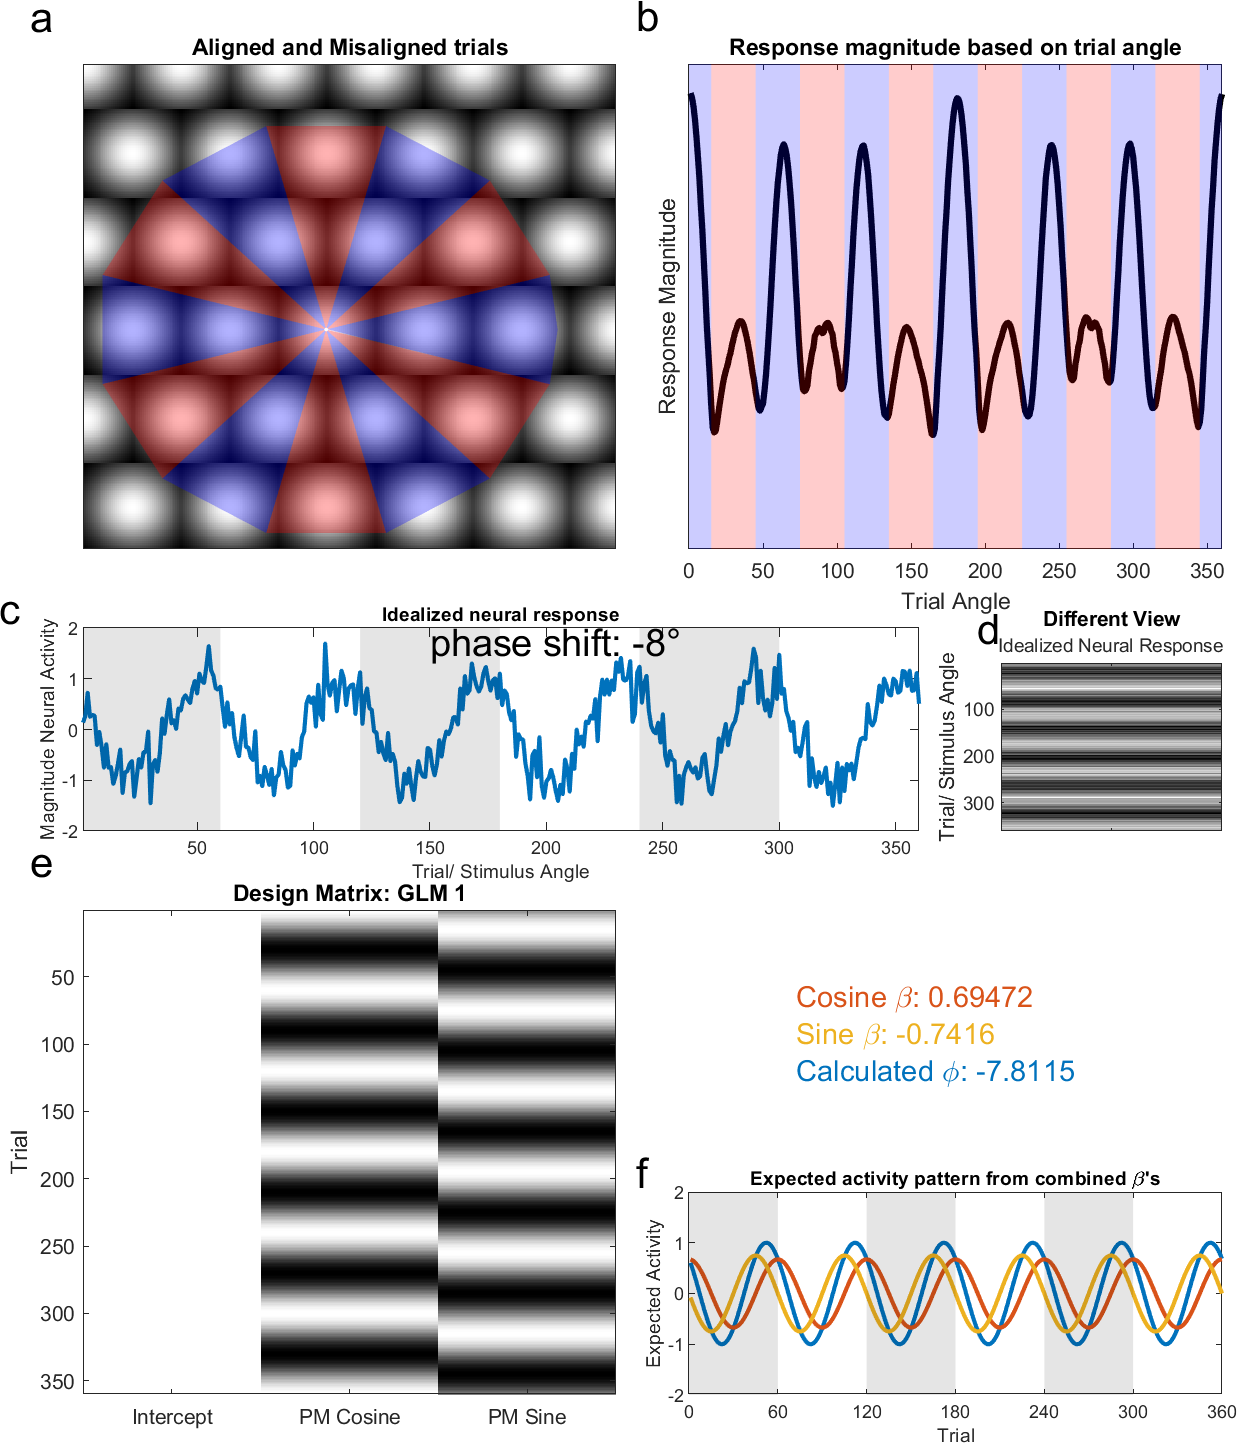
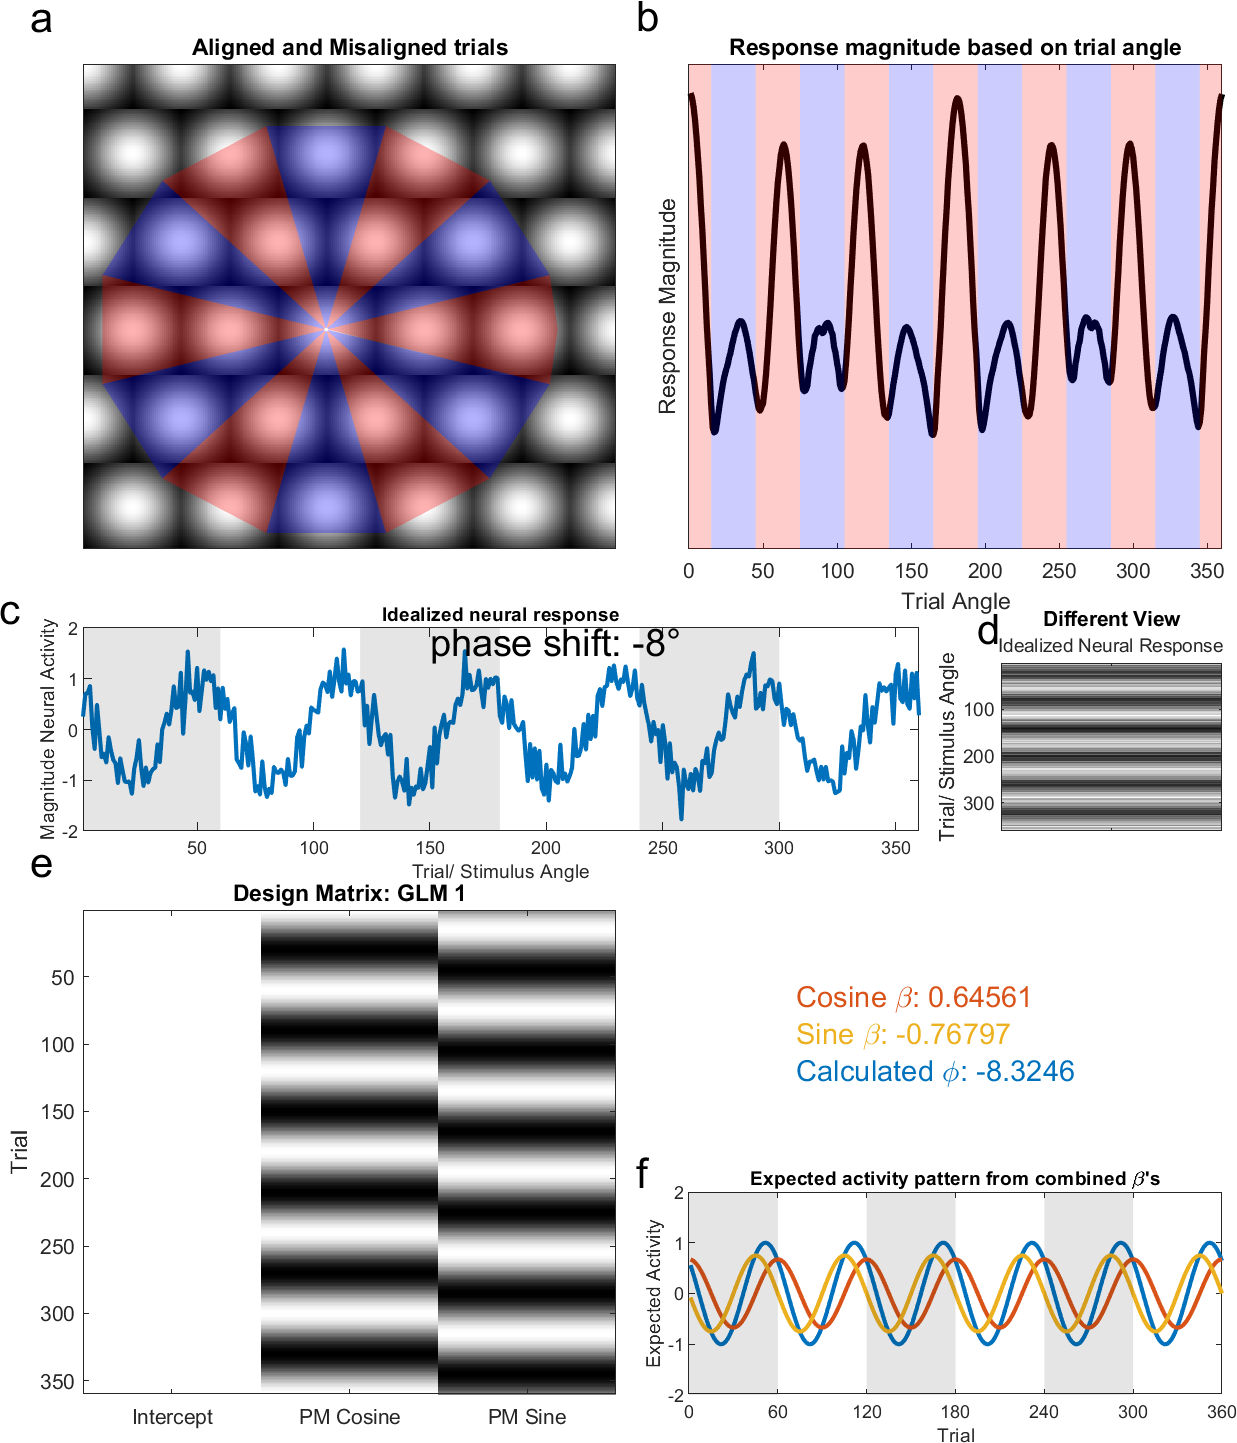
Updated figure colours

diff --git a/2.3-Grid-Code_Analysis/Figure_01.m b/2.3-Grid-Code_Analysis/Figure_01.m
@@ -106,14 +106,14 @@ for iPatch = 1:12
     yPos = y([1, end],endpoints);
     
     if mod(iPatch,2) == 1
-        col = [1 0 0];
-    else
         col = [0 0 1];
+    else
+        col = [1 0 0];
     end
     patch([xPos(1,1) xPos(2,1) xPos(2,2) xPos(1,2)], [yPos(1,1) yPos(2,1) yPos(2,2) yPos(1,2)], col, 'FaceAlpha', .3, 'EdgeColor','none')
 end
 % Add the last blue one [0 - 15]
-patch([125 244 240 126], [150 150 181 150], [0 0 1], 'FaceAlpha', .3, 'EdgeColor','none')
+patch([125 244 240 126], [150 150 181 150], [1 0 0], 'FaceAlpha', .3, 'EdgeColor','none')
 
 % Add the patch for the left figure
 subplot(5,4,[3 4 7 8]);
@@ -121,9 +121,9 @@ title('Response magnitude based on trial angle')
 angles = [15:30:360, 360, 0, 15];
 for iPatch = 1:12
     if mod(iPatch,2) == 1
-        col = [1 0 0];
-    else
         col = [0 0 1];
+    else
+        col = [1 0 0];
     end
     patch([angles(iPatch) angles(iPatch+1) angles(iPatch+1) angles(iPatch)], [yMins(1) yMins(1) yMins(2) yMins(2)], col, ...
         'FaceAlpha', .2, 'EdgeColor','none')
